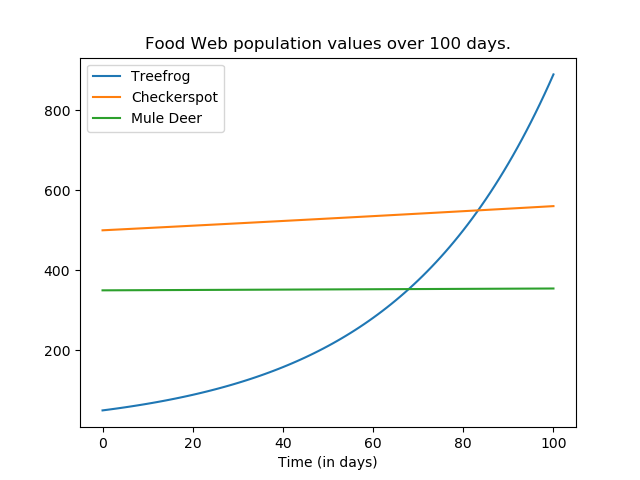
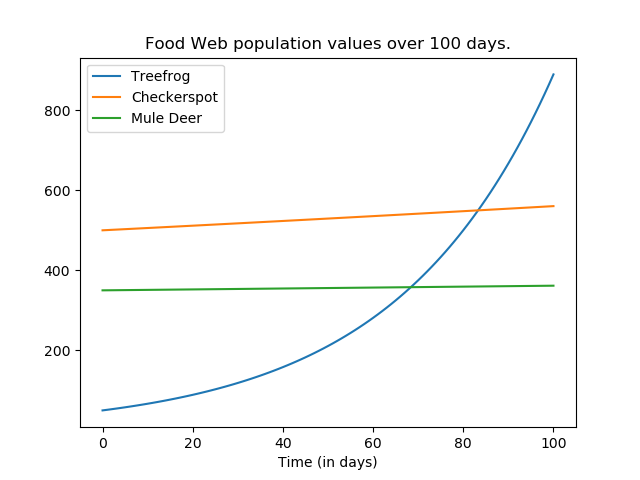
sorted primary consumers

Changed region(s): [[0.1875, 0.5938, 0.875, 0.625]]

diff --git a/FoodWebModel/foodweb.py b/FoodWebModel/foodweb.py
@@ -4,12 +4,15 @@
 # - Collegiate School
 
 from mautils import graphing as mgr
-from life import treefrog, checkerspot, deermule
+from life.primary import treefrog, checkerspot, deermule
 
 def main():
     days = 100
 
     savedata = world().run(days)
+    
+    
+    #graphing stuff
     ylablist = list(savedata[1].keys())
     ylist = []
     for a in ylablist:

diff --git a/FoodWebModel/life/primary/deermule.py b/FoodWebModel/life/primary/deermule.py
@@ -3,7 +3,7 @@ class muledeer():
         self.population = population
         self.time = time
 
-        self.growth = 3/(365*14)
+        self.growth = 4/(365*14)
         self.death = 1/(365*6)
         
     def simulate(self,agent):
